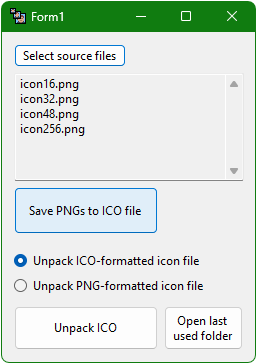
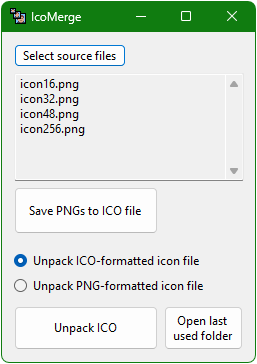
form rename

Changed region(s): [[0.0311, 0.5137, 0.6226, 0.6648], [0.1245, 0.0302, 0.3113, 0.0604]]

diff --git a/IcoMerge/MainForm.Designer.cs b/IcoMerge/MainForm.Designer.cs
@@ -1,6 +1,6 @@
 namespace IcoMerge
 {
-    partial class Form1
+    partial class MainForm
     {
         /// <summary>
         ///  Required designer variable.
@@ -28,7 +28,7 @@
         /// </summary>
         private void InitializeComponent()
         {
-            System.ComponentModel.ComponentResourceManager resources = new System.ComponentModel.ComponentResourceManager(typeof(Form1));
+            System.ComponentModel.ComponentResourceManager resources = new System.ComponentModel.ComponentResourceManager(typeof(MainForm));
             buttonConvertToIco = new Button();
             openFileDialog1 = new OpenFileDialog();
             button1 = new Button();
@@ -124,7 +124,7 @@
             button2.UseVisualStyleBackColor = true;
             button2.Click += button2_Click;
             // 
-            // Form1
+            // MainForm
             // 
             AutoScaleDimensions = new SizeF(7F, 15F);
             AutoScaleMode = AutoScaleMode.Font;
@@ -137,8 +137,8 @@
             Controls.Add(button1);
             Controls.Add(buttonConvertToIco);
             Icon = (Icon)resources.GetObject("$this.Icon");
-            Name = "Form1";
-            Text = "Form1";
+            Name = "MainForm";
+            Text = "IcoMerge";
             ResumeLayout(false);
             PerformLayout();
         }

diff --git a/IcoMerge/MainForm.cs b/IcoMerge/MainForm.cs
@@ -2,7 +2,7 @@ using System.Diagnostics;
 
 namespace IcoMerge;
 
-public partial class Form1 : Form
+public partial class MainForm : Form
 {
 
     string[] icoFiles = new string[0];
@@ -10,7 +10,7 @@ public partial class Form1 : Form
     string[] imageFiles = new string[0];
 
 
-    public Form1()
+    public MainForm()
     {
         InitializeComponent();
     }

diff --git a/IcoMerge/Program.cs b/IcoMerge/Program.cs
@@ -11,7 +11,7 @@ namespace IcoMerge
             // To customize application configuration such as set high DPI settings or default font,
             // see https://aka.ms/applicationconfiguration.
             ApplicationConfiguration.Initialize();
-            Application.Run(new Form1());
+            Application.Run(new MainForm());
         }
     }
 }
